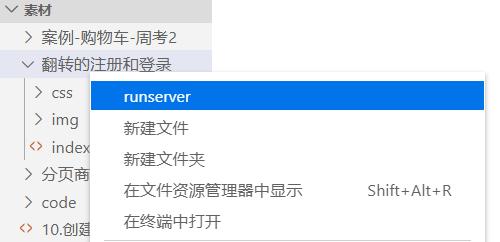
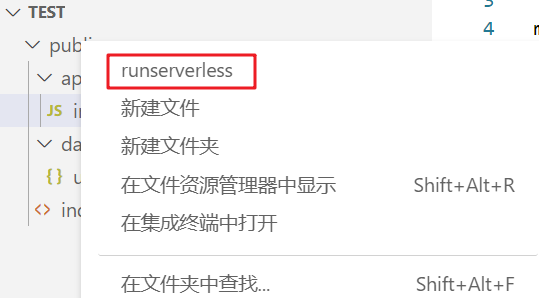
13.36

diff --git a/out/extension.js b/out/extension.js
@@ -1,4 +1,13 @@
 "use strict";
+var __awaiter = (this && this.__awaiter) || function (thisArg, _arguments, P, generator) {
+    function adopt(value) { return value instanceof P ? value : new P(function (resolve) { resolve(value); }); }
+    return new (P || (P = Promise))(function (resolve, reject) {
+        function fulfilled(value) { try { step(generator.next(value)); } catch (e) { reject(e); } }
+        function rejected(value) { try { step(generator["throw"](value)); } catch (e) { reject(e); } }
+        function step(result) { result.done ? resolve(result.value) : adopt(result.value).then(fulfilled, rejected); }
+        step((generator = generator.apply(thisArg, _arguments || [])).next());
+    });
+};
 Object.defineProperty(exports, "__esModule", { value: true });
 // The module 'vscode' contains the VS Code extensibility API
 // Import the module and reference it with the alias vscode in your code below
@@ -8,28 +17,51 @@ const childProcess = require("child_process");
 const http = require("http");
 const serveStatic = require("serve-static");
 const serveIndex = require("serve-index");
+const portIsOccupied_1 = require("./portIsOccupied");
+const api_1 = require("./api");
+const noResponseDir_1 = require("./noResponseDir");
 // this method is called when your extension is activated
 // your extension is activated the very first time the command is executed
 function activate(context) {
     let server;
-    let disposable_runserver = vscode.commands.registerCommand('app.runserver', (uri) => {
-        // vscode.window.showInformationMessage('hello vs code');
+    let disposable_runserver = vscode.commands.registerCommand('app.runserverless', (uri) => __awaiter(this, void 0, void 0, function* () {
         const app = express();
         if (uri) {
+            // 解析请求体数据
+            app.use(express.json());
+            app.use(express.urlencoded());
+            // 设置不响应的目录
+            app.use(noResponseDir_1.default(['/data', '/assets', '/utils', '/common']));
+            api_1.default(uri.fsPath, app); // 解析 api目录中的接口
+            // 设置静态资源响应
             app.use(serveStatic(uri.fsPath, { 'index': ['index.html'] }));
             app.use(serveIndex(uri.fsPath, { 'icons': true }));
+            // 导向404页面
+            app.use('*', (req, res) => res.send('<h1>404</h1>'));
+            if (server) { // 如果该服务已经启动过了，则停止该服务
+                server.close();
+            }
+            server = http.createServer(app);
+            // 检测端口是否被占用
+            let port = 3000;
+            let portAble = yield portIsOccupied_1.default(port);
+            while (!portAble) {
+                port += 1; //如果被占用就每次给端口加1再进行检测
+                portAble = yield portIsOccupied_1.default(port);
+            }
+            server.listen(port, () => {
+                childProcess.exec('start http://localhost:' + port);
+                vscode.window.setStatusBarMessage(`服务器地址：http://localhost:${port},静态资源目录：${uri.fsPath}`);
+                vscode.window.showInformationMessage('serverless启动成功');
+            });
         }
-        server = http.createServer(app);
-        const port = 3000;
-        server.listen(port, () => {
-            console.log('server had run at http://localhost:' + port);
-            childProcess.exec('start http://localhost:' + port);
-            vscode.window.setStatusBarMessage('http://localhost:3000');
-        });
-    });
-    let disposable_stopserver = vscode.commands.registerCommand('app.stopserver', uri => {
+        else {
+            vscode.window.showInformationMessage('未找到静态资源目录，所以serverless并未启动,请在左侧资源管理器中通过右键启动！');
+        }
+    }));
+    let disposable_stopserver = vscode.commands.registerCommand('app.stopserverless', uri => {
         server.close();
-        vscode.window.showInformationMessage('http:3000服务器已经停止');
+        vscode.window.showInformationMessage('serverless已经停止');
         vscode.window.setStatusBarMessage('');
     });
     context.subscriptions.push(disposable_runserver);

diff --git a/src/extension.ts b/src/extension.ts
@@ -6,29 +6,50 @@ import * as childProcess from 'child_process';
 import * as http from 'http';
 import * as serveStatic from 'serve-static';
 import * as serveIndex from 'serve-index';
+import portIsOccupied from './portIsOccupied';
+import api from './api';
+import noResponseDir from './noResponseDir';
 // this method is called when your extension is activated
 // your extension is activated the very first time the command is executed
 export function activate(context: vscode.ExtensionContext) {
-	let server: any;
-	let disposable_runserver = vscode.commands.registerCommand('app.runserver', (uri) => {
-		// vscode.window.showInformationMessage('hello vs code');
-		const app = express();
+	let server: http.Server;
+	let disposable_runserver: vscode.Disposable = vscode.commands.registerCommand('app.runserverless', async (uri) => {
+		const app: express.Express = express();
 		if (uri) {
+			// 解析请求体数据
+			app.use(express.json());
+			app.use(express.urlencoded());
+			// 设置不响应的目录
+			app.use(noResponseDir(['/data', '/assets', '/utils', '/common']));
+			api(uri.fsPath, app); // 解析 api目录中的接口
+			// 设置静态资源响应
 			app.use(serveStatic(uri.fsPath, { 'index': ['index.html'] }));
 			app.use(serveIndex(uri.fsPath, { 'icons': true }));
+			// 导向404页面
+			app.use('*', (req: any, res: any) => res.send('<h1>404</h1>'));
+			if (server) { // 如果该服务已经启动过了，则停止该服务
+				server.close();
+			}
+			server = http.createServer(app);
+			// 检测端口是否被占用
+			let port: number = 3000;
+			let portAble: boolean = await portIsOccupied(port);
+			while (!portAble) {
+				port += 1; //如果被占用就每次给端口加1再进行检测
+				portAble = await portIsOccupied(port);
+			}
+			server.listen(port, () => {
+				childProcess.exec('start http://localhost:' + port);
+				vscode.window.setStatusBarMessage(`服务器地址：http://localhost:${port},静态资源目录：${uri.fsPath}`);
+				vscode.window.showInformationMessage('serverless启动成功');
+			});
+		} else {
+			vscode.window.showInformationMessage('未找到静态资源目录，所以serverless并未启动,请在左侧资源管理器中通过右键启动！');
 		}
-		server = http.createServer(app);
-		const port: number = 3000;
-		server.listen(port, () => {
-			console.log('server had run at http://localhost:' + port);
-			childProcess.exec('start http://localhost:' + port);
-			vscode.window.setStatusBarMessage('http://localhost:3000');
-		});
-
 	});
-	let disposable_stopserver = vscode.commands.registerCommand('app.stopserver', uri => {
+	let disposable_stopserver = vscode.commands.registerCommand('app.stopserverless', uri => {
 		server.close();
-		vscode.window.showInformationMessage('http:3000服务器已经停止');
+		vscode.window.showInformationMessage('serverless已经停止');
 		vscode.window.setStatusBarMessage('');
 	});
 	context.subscriptions.push(disposable_runserver);

diff --git a/src/api.ts b/src/api.ts
@@ -1,0 +1,24 @@
+import { Application } from 'express';
+import * as fs from 'fs';
+import * as path from 'path';
+
+export default (publicPath: string, app: Application) => {
+    const dirs: string[] = fs.readdirSync(publicPath);
+    if (dirs.indexOf('api') === -1) {
+        return;
+    }
+    const apiDirs: string[] = fs.readdirSync(path.join(publicPath, 'api'));
+    const APIS: ObjectPathInfo[] = apiDirs.map((item: string) => {
+        return {
+            name: item,
+            abs: path.join(path.join(publicPath, 'api'), item)
+        };
+    });
+    APIS.forEach((item: ObjectPathInfo) => {
+        const listener: any = require(item.abs);
+        const index: number = item.name.lastIndexOf('.');
+        const pathname: string = `/api/${item.name.slice(0, index)}`;
+        app.get(pathname, listener);
+        app.post(pathname, listener);
+    });
+};

diff --git a/out/api.js b/out/api.js
@@ -1,0 +1,25 @@
+"use strict";
+Object.defineProperty(exports, "__esModule", { value: true });
+const fs = require("fs");
+const path = require("path");
+exports.default = (publicPath, app) => {
+    const dirs = fs.readdirSync(publicPath);
+    if (dirs.indexOf('api') === -1) {
+        return;
+    }
+    const apiDirs = fs.readdirSync(path.join(publicPath, 'api'));
+    const APIS = apiDirs.map((item) => {
+        return {
+            name: item,
+            abs: path.join(path.join(publicPath, 'api'), item)
+        };
+    });
+    APIS.forEach((item) => {
+        const listener = require(item.abs);
+        const index = item.name.lastIndexOf('.');
+        const pathname = `/api/${item.name.slice(0, index)}`;
+        app.get(pathname, listener);
+        app.post(pathname, listener);
+    });
+};
+//# sourceMappingURL=api.js.map

diff --git a/out/portIsOccupied.js b/out/portIsOccupied.js
@@ -1,0 +1,21 @@
+"use strict";
+Object.defineProperty(exports, "__esModule", { value: true });
+const net = require("net");
+// 检测端口是否被占用
+function portIsOccupied(port) {
+    return new Promise((resolve) => {
+        // 创建服务并监听该端口
+        const server = net.createServer().listen(port);
+        server.on('listening', function () {
+            server.close(); // 关闭服务
+            resolve(true); // 端口没有被占用
+        });
+        server.on('error', function (err) {
+            if (err.code === 'EADDRINUSE') { // 端口已经被使用
+                resolve(false); // 端口已经被占用
+            }
+        });
+    });
+}
+exports.default = portIsOccupied;
+//# sourceMappingURL=portIsOccupied.js.map

diff --git a/src/portIsOccupied.ts b/src/portIsOccupied.ts
@@ -1,0 +1,21 @@
+
+import * as net from 'net';
+
+// 检测端口是否被占用
+function portIsOccupied(port: number): Promise<boolean> {
+    return new Promise((resolve) => {
+        // 创建服务并监听该端口
+        const server: net.Server = net.createServer().listen(port);
+        server.on('listening', function () { // 执行这块代码说明端口未被占用
+            server.close(); // 关闭服务
+            resolve(true); // 端口没有被占用
+        });
+        server.on('error', function (err: any) {
+            if (err.code === 'EADDRINUSE') { // 端口已经被使用
+                resolve(false); // 端口已经被占用
+            }
+        });
+    });
+
+}
+export default portIsOccupied;

diff --git a/out/noResponseDir.js b/out/noResponseDir.js
@@ -1,0 +1,17 @@
+"use strict";
+Object.defineProperty(exports, "__esModule", { value: true });
+exports.default = (dirnames) => {
+    return (req, res, next) => {
+        const noPass = dirnames.some((dirname) => req.url.startsWith(dirname));
+        if (noPass) {
+            res.send('<h1>404</h1>');
+            return;
+        }
+        if (req.path === '/api' || req.path === '/api/') {
+            res.send('<h1>404</h1>');
+            return;
+        }
+        next();
+    };
+};
+//# sourceMappingURL=noResponseDir.js.map

diff --git a/src/noResponseDir.ts b/src/noResponseDir.ts
@@ -1,0 +1,15 @@
+
+export default (dirnames: string[]) => {
+    return (req: any, res: any, next: any) => {
+        const noPass: boolean = dirnames.some((dirname: string) => req.url.startsWith(dirname));
+        if (noPass) {
+            res.send('<h1>404</h1>');
+            return;
+        }
+        if (req.path === '/api' || req.path === '/api/') {
+            res.send('<h1>404</h1>');
+            return;
+        }
+        next();
+    };
+};

diff --git a/out/noResponseData.js b/out/noResponseData.js
@@ -1,0 +1,12 @@
+"use strict";
+Object.defineProperty(exports, "__esModule", { value: true });
+exports.default = () => {
+    return (req, res, next) => {
+        if (req.path.startsWith('/data')) {
+            res.send('404');
+            return;
+        }
+        next();
+    };
+};
+//# sourceMappingURL=noResponseData.js.map

diff --git a/src/index.d.ts b/src/index.d.ts
@@ -1,0 +1,5 @@
+interface ObjectPathInfo {
+    name: string;
+    abs: string;
+}
+

diff --git a/README.md b/README.md
@@ -1,17 +1,36 @@
-# runserver
+# runserverless
 
-## 使用方法
+本插件现在正式更名为`runserverless`，并指定版本号为`1.0.0`
 
-在资源管理器的任意目录上鼠标右键，在菜单中选择 `runserver`，即可在http环境中预览页面,默认是3000端口，暂时不支持自定义端口，因此保持3000端口未被占用
+`runserverless`插件的作用是模拟一个云函数系统，不需要额外的操作即可快速的指定一个目录作为静态资源目录，并兼具编写云函数的功能。
+
+## 启动方法
+
+在资源管理器的任意目录上鼠标右键，在菜单中选择 `runserverless`，即可创建一个基于`nodejs`的`http`服务器,默认是3000端口，如果端口被占用会自动搜索未占用的端口，并指定本服务器为该端口,如下图所示：
 
 ![](./img/1.png)
 
-在底部的状态栏会显示当前正在运行的服务器
+在底部的状态栏会显示当前正在运行的服务器地址，以及静态资源目录的地址
 
-![](./img.2.png)
+![](./img/2.png)
 
-按住`ctrl + shift + p`调用面板命令，输入`stopserver`命令，即可停止静态资源服务器
+此时该目录的静态资源就可以以该资源相对于静态根目录的相对路径作为`url`地址被访问了。
 
-## 0.1.1升级
-1. 优化了文件列表界面
-2. 服务器性能有了提升
+按住`ctrl + shift + p`调用面板命令，输入`stopserverless`命令，即可停止静态资源服务器
+## 编写云函数
+在静态资源目录下，有`api`  `data`  `assets`  `utils`这几个目录是特殊的，它们下的资源不会被响应。
+而`api`目录下被指定为编写云函数的目录，比如：`/api/index.js`的代码如下：
+```js
+module.exports = (req, res) => {
+    res.send('ok')
+}
+```
+当访问`/api/index`的时候，会响应`ok`。
+这里编写的云函数规则与`express`的路由句柄形式是相同的。
+注意：模块语法暂时只支持`commonjs`风格。
+
+## 下次升级
+
+本次的 `api`目录下的接口暂不支持目录的嵌套，也就是说 `/api/common/home.js`是会报错的，通过`/api/common/home`是无法请求对应接口的。
+
+计划再 1.0.1的版本中升级该功能。
